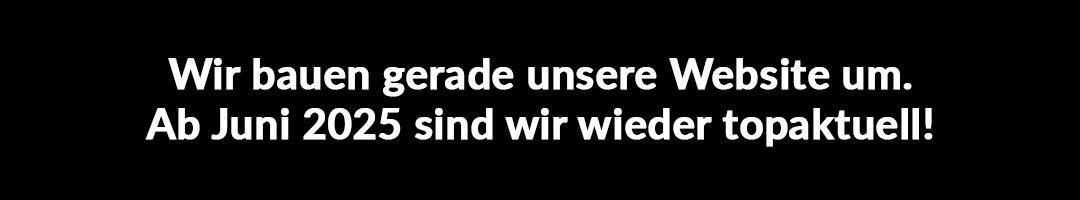
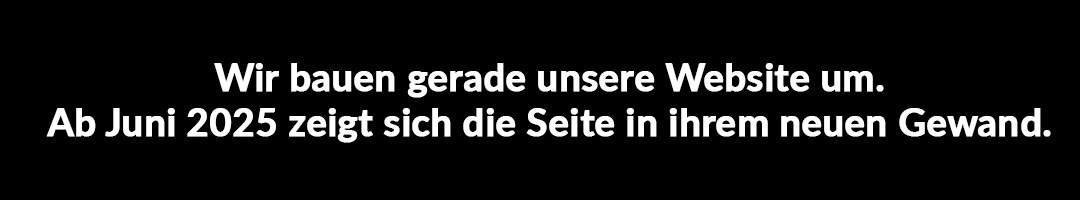
Rework website part 2

Changed region(s): [[0.0306, 0.54, 0.9778, 0.75], [0.1528, 0.27, 0.8556, 0.51]]

diff --git a/src/routes/tapatate/+page.svelte b/src/routes/tapatate/+page.svelte
@@ -7,12 +7,14 @@
 	import patates from '$lib/images/tapatate-patates.jpg';
 	import board from '$lib/images/tapatate-board.png';
 	import armin from '$lib/images/tapatate-armin.jpg';
-	import athina from '$lib/images/tapatate-athina.jpg';
-	import celina from '$lib/images/tapatate-celina.jpg';
-	import luna from '$lib/images/tapatate-luna.jpg';
+	import neal from '$lib/images/tapatate-neal.jpg';
+	import luca from '$lib/images/tapatate-luca.jpg';
+	import nadina from '$lib/images/tapatate-nadina.jpg';
 	import valentin from '$lib/images/tapatate-valentin.jpg';
 	import martina from '$lib/images/tapatate-martina.png';
-	import janosch from '$lib/images/tapatate-janosch.jpg';
+	import melina from '$lib/images/tapatate-melina.jpg';
+	import simon from '$lib/images/tapatate-simon.jpg';
+	import noemie from '$lib/images/tapatate-noemie.jpg';
 	import reworkFR from '$lib/images/website_rework_FR.jpg';
 	import reworkDE from '$lib/images/website_rework.jpg';
 
@@ -29,25 +31,9 @@
 			image: armin
 		},
 		{
-			id: 'athina',
-			name: 'Athina Dill',
-			image: athina
-		},
-
-		{
-			id: 'celina',
-			name: 'Celina Vonwyl',
-			image: celina
-		},
-		{
-			id: 'luna',
-			name: 'Luna Satori',
-			image: luna
-		},
-		{
-			id: 'valentin',
-			name: 'Valentin Birbaum',
-			image: valentin
+			id: 'luca',
+			name: 'Luca Helfenstein',
+			image: luca
 		},
 		{
 			id: 'martina',
@@ -55,9 +41,34 @@
 			image: martina
 		},
 		{
-			id: 'janosch',
-			name: 'Janosch Sommer',
-			image: janosch
+			id: 'melina',
+			name: 'Melina Jörg',
+			image: melina
+		},
+		{
+			id: 'nadina',
+			name: 'Nadina Sommer',
+			image: nadina
+		},
+		{
+			id: 'neal',
+			name: 'Neal Dill',
+			image: neal
+		},
+		{
+			id: 'noemie',
+			name: 'Noémie Pichon',
+			image: noemie
+		},
+		{
+			id: 'simon',
+			name: 'Simon Mägli',
+			image: simon
+		},
+		{
+			id: 'valentin',
+			name: 'Valentin Birbaum',
+			image: valentin
 		}
 	];
 </script>
@@ -123,7 +134,6 @@
 					<div class="card p-6 flex flex-col items-center space-y-4">
 						<Avatar src={person.image} width="w-48" height="h-48" rounded="rounded-full" />
 						<h5 class="h5">{person.name}</h5>
-						<p>{$_(`tapatate.board.${person.id}.description`)}</p>
 						<p><strong><em>"{$_(`tapatate.board.${person.id}.quote`)}"</em></strong></p>
 						<p>{$_(`tapatate.board.${person.id}.association`)}</p>
 					</div>

diff --git a/src/routes/recipes/+page.svelte b/src/routes/recipes/+page.svelte
@@ -1,10 +1,12 @@
 <script lang="ts">
-	import { _, json } from 'svelte-i18n';
+	import { locale, _, json } from 'svelte-i18n';
 	import { base } from '$app/paths';
 	import Title from '$lib/Title.svelte';
 	import backgroundImage from '$lib/images/bg-recipes.jpg';
 	import type { Recipe } from '$lib/Recipe';
 	import { recipeSearchTerm } from '$lib/stores';
+	import reworkFR from '$lib/images/website_rework_FR.jpg';
+	import reworkDE from '$lib/images/website_rework.jpg';
 
 	const images = Object.values(
 		import.meta.glob('$lib/images/recipes/*.{jpg,jpeg}', {
@@ -46,6 +48,16 @@
 </script>
 
 <Title title={$_('recipes.title')} {backgroundImage} />
+
+<div
+	class="flex flex-col md:flex-row justify-evenly items-center space-y-8 md:space-y-0 py-12 space-y-16"
+>
+	<img src={$locale && $locale.includes('fr') ? reworkFR : reworkDE} alt={$_('news.news.rework')} />
+</div>
+
+<div
+	class="flex flex-col md:flex-row justify-evenly items-center space-y-8 md:space-y-0 py-12 space-y-16"
+></div>
 
 <div class="w-full px-8 space-y-16">
 	<div class="flex justify-center md:justify-end w-full">

diff --git a/src/routes/user-area/+page.svelte b/src/routes/user-area/+page.svelte
@@ -1,13 +1,25 @@
 <script lang="ts">
-	import { _ } from 'svelte-i18n';
+	import { locale, _ } from 'svelte-i18n';
 	import { base } from '$app/paths';
 	import Title from '$lib/Title.svelte';
 	import backgroundImage from '$lib/images/bg-user-area.jpg';
 	import familyEngagement from '$lib/images/userArea-familieneinsaetze.jpg';
 	import bagsInfo from '$lib/images/userArea-taschen.jpg';
+	import reworkFR from '$lib/images/website_rework_FR.jpg';
+	import reworkDE from '$lib/images/website_rework.jpg';
 </script>
 
 <Title title={$_('userArea.title')} {backgroundImage} />
+
+<div
+	class="flex flex-col md:flex-row justify-evenly items-center space-y-8 md:space-y-0 py-12 space-y-16"
+>
+	<img src={$locale && $locale.includes('fr') ? reworkFR : reworkDE} alt={$_('news.news.rework')} />
+</div>
+
+<div
+	class="flex flex-col md:flex-row justify-evenly items-center space-y-8 md:space-y-0 py-12 space-y-16"
+></div>
 
 <div class="w-full px-8">
 	<section class="container mx-auto flex flex-col max-w-5xl space-y-16">

diff --git a/src/routes/farm/+page.svelte b/src/routes/farm/+page.svelte
@@ -1,13 +1,25 @@
 <script lang="ts">
-	import { _ } from 'svelte-i18n';
+	import { locale, _ } from 'svelte-i18n';
 	import Title from '$lib/Title.svelte';
 	import backgroundImage from '$lib/images/bg-farm.jpg';
 	import farm from '$lib/images/farm.jpg';
 	import veggies from '$lib/images/veggies.jpg';
 	import fruits from '$lib/images/fruits.jpg';
+	import reworkFR from '$lib/images/website_rework_FR.jpg';
+	import reworkDE from '$lib/images/website_rework.jpg';
 </script>
 
 <Title title={$_('farm.title')} {backgroundImage} />
+
+<div
+	class="flex flex-col md:flex-row justify-evenly items-center space-y-8 md:space-y-0 py-12 space-y-16"
+>
+	<img src={$locale && $locale.includes('fr') ? reworkFR : reworkDE} alt={$_('news.news.rework')} />
+</div>
+
+<div
+	class="flex flex-col md:flex-row justify-evenly items-center space-y-8 md:space-y-0 py-12 space-y-16"
+></div>
 
 <div class="w-full px-8">
 	<section class="container mx-auto flex flex-col max-w-5xl space-y-16">

diff --git a/src/routes/contact/+page.svelte b/src/routes/contact/+page.svelte
@@ -1,7 +1,9 @@
 <script lang="ts">
-	import { _ } from 'svelte-i18n';
+	import { locale, _ } from 'svelte-i18n';
 	import Title from '$lib/Title.svelte';
 	import backgroundImage from '$lib/images/bg-contact.jpg';
+	import reworkFR from '$lib/images/website_rework_FR.jpg';
+	import reworkDE from '$lib/images/website_rework.jpg';
 
 	let firstName = '';
 	let lastName = '';
@@ -10,6 +12,16 @@
 </script>
 
 <Title title={$_('contact.title')} {backgroundImage} />
+
+<div
+	class="flex flex-col md:flex-row justify-evenly items-center space-y-8 md:space-y-0 py-12 space-y-16"
+>
+	<img src={$locale && $locale.includes('fr') ? reworkFR : reworkDE} alt={$_('news.news.rework')} />
+</div>
+
+<div
+	class="flex flex-col md:flex-row justify-evenly items-center space-y-8 md:space-y-0 py-12 space-y-16"
+></div>
 
 <div class="w-full px-8">
 	<section class="container mx-auto flex flex-col max-w-5xl space-y-16">

diff --git a/src/routes/subscriptions/+page.svelte b/src/routes/subscriptions/+page.svelte
@@ -13,6 +13,8 @@
 	import herbs from '$lib/images/subscriptions/herbs.png';
 	import tea from '$lib/images/subscriptions/tea.png';
 	import Abo from './Abo.svelte';
+	import reworkFR from '$lib/images/website_rework_FR.jpg';
+	import reworkDE from '$lib/images/website_rework.jpg';
 
 	interface Subscription {
 		id: string;
@@ -67,6 +69,16 @@
 </script>
 
 <Title title={$_('subscriptions.title')} {backgroundImage} />
+
+<div
+	class="flex flex-col md:flex-row justify-evenly items-center space-y-8 md:space-y-0 py-12 space-y-16"
+>
+	<img src={$locale && $locale.includes('fr') ? reworkFR : reworkDE} alt={$_('news.news.rework')} />
+</div>
+
+<div
+	class="flex flex-col md:flex-row justify-evenly items-center space-y-8 md:space-y-0 py-12 space-y-16"
+></div>
 
 <div class="w-full px-8">
 	<section class="container mx-auto flex flex-col max-w-5xl space-y-16">

diff --git a/src/routes/depots/+page.svelte b/src/routes/depots/+page.svelte
@@ -5,9 +5,21 @@
 	import Title from '$lib/Title.svelte';
 	import DepotMap from '$lib/DepotMap.svelte';
 	import backgroundImage from '$lib/images/bg-depots.jpg';
+	import reworkFR from '$lib/images/website_rework_FR.jpg';
+	import reworkDE from '$lib/images/website_rework.jpg';
 </script>
 
 <Title title={$_('depots.title')} {backgroundImage} />
+
+<div
+	class="flex flex-col md:flex-row justify-evenly items-center space-y-8 md:space-y-0 py-12 space-y-16"
+>
+	<img src={$locale && $locale.includes('fr') ? reworkFR : reworkDE} alt={$_('news.news.rework')} />
+</div>
+
+<div
+	class="flex flex-col md:flex-row justify-evenly items-center space-y-8 md:space-y-0 py-12 space-y-16"
+></div>
 
 <div class="w-full p-8">
 	<section class="container mx-auto flex flex-col max-w-5xl space-y-16">
